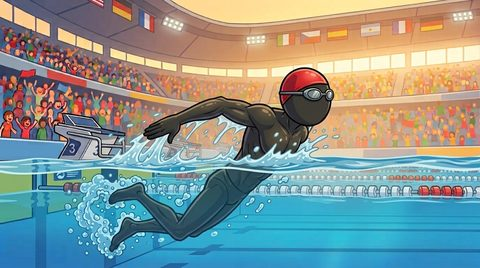
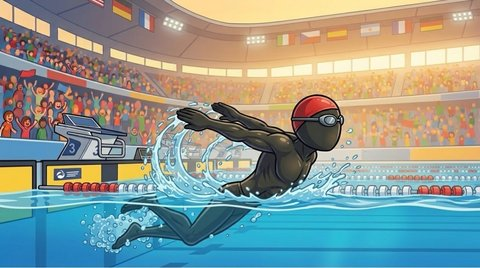
Breaststroke: new picture
Claude-Session: https://claude.ai/code/session_016KqFwJoxWN4AcwDpihVNf3

diff --git a/js/ui/screens.js b/js/ui/screens.js
@@ -52,7 +52,7 @@ export function paintPict(c,i){ const px=c.clientWidth||64, d=2; c.width=c.heigh
 }
 // illustrated thumbnails (assets/thumbs/<id>.webp, small <id>-sm.webp for the cards; the .jpg are the originals), with where the athlete is so a crop
 // keeps them in view; an event without one (a new invented event) gets the stickman drawn in code
-export const THUMBS={'100':'34% 30%','lj':'44% 30%','tj':'48% 30%','110h':'50% 34%','pv':'36% 30%','jav':'52% 32%','ham':'60% 30%','sp':'50% 30%','hj':'55% 30%','crawl':'62% 30%','4x100':'55% 35%','laser':'45% 30%','cycle':'42% 35%','breast':'55% 30%','fly':'60% 30%','tour':'52% 30%','surv':'50% 35%'};
+export const THUMBS={'100':'34% 30%','lj':'44% 30%','tj':'48% 30%','110h':'50% 34%','pv':'36% 30%','jav':'52% 32%','ham':'60% 30%','sp':'50% 30%','hj':'55% 30%','crawl':'62% 30%','4x100':'55% 35%','laser':'45% 30%','cycle':'42% 35%','breast':'58% 40%','fly':'60% 30%','tour':'52% 30%','surv':'50% 35%'};
 const thumbKey=i=>i>=0&&i<EVENTS.length+BETA.length?evAt(i).id:'tour';
 // the events on the events screen: the published ones, and for the admin also the ones in testing
 const shownEvents=()=>isAdmin()?EVENTS.concat(BETA):EVENTS;
